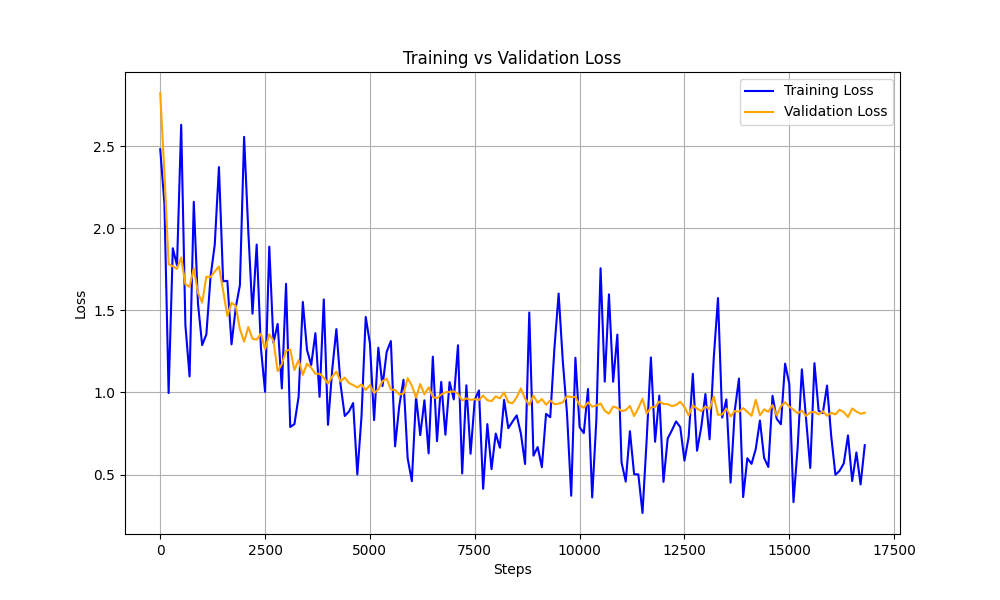
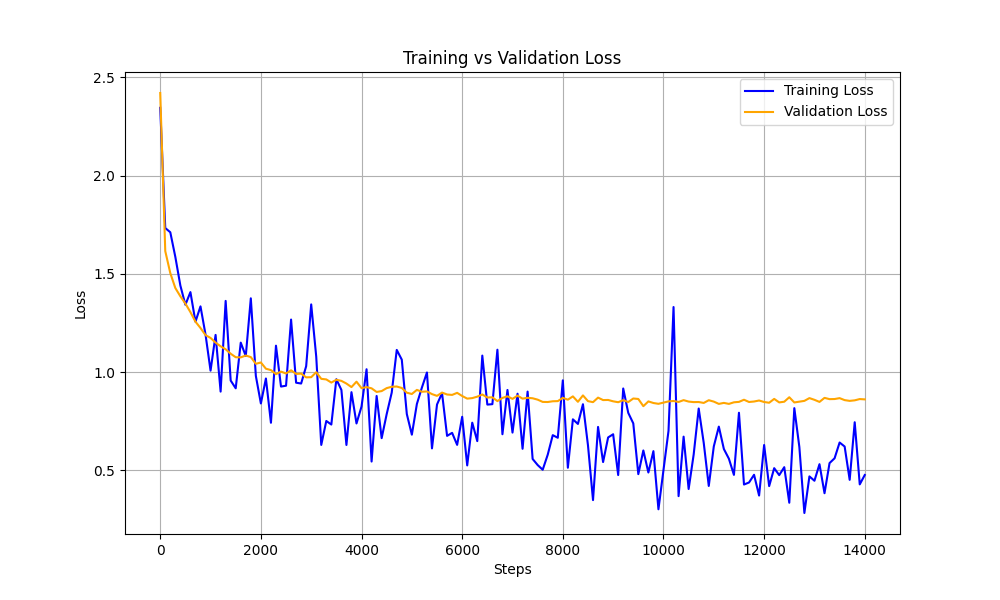
basic CNN stats

diff --git a/train.py b/train.py
@@ -26,12 +26,17 @@ class CNNModel(nn.Module):
         self.conv2 = nn.Conv2d(in_channels=64, out_channels=128, kernel_size=3) #[B, 128, 29, 29]
         self.relu2 = nn.ReLU()
         self.b_norm2 = nn.BatchNorm2d(128)
-        self.pooling1 = nn.MaxPool2d(kernel_size=3, stride=3) # [B, 128, 9, 9]
+        self.pooling1 = nn.AvgPool2d(kernel_size=3, stride=3) # [B, 128, 9, 9]
         self.dp2 = nn.Dropout(0.1)
 
         self.flatten = nn.Flatten(start_dim=1, end_dim=-1) # [B, 128*9*9]
-        self.hidden1 = nn.Linear(in_features=128*9*9, out_features=500)
-        self.proj = nn.Linear(in_features=500, out_features=10)
+        self.hidden1 = nn.Linear(in_features=128*9*9, out_features=100)
+        self.layer_norm1 = nn.LayerNorm(100)
+        self.dp3 = nn.Dropout(0.1)
+        self.hidden2 = nn.Linear(in_features=100, out_features=50)
+        self.layer_norm2 = nn.LayerNorm(50)
+        self.dp4 = nn.Dropout(0.1)
+        self.proj = nn.Linear(in_features=50, out_features=10)
     
     def forward(self, x):
         x = self.conv1(x)
@@ -45,13 +50,17 @@ class CNNModel(nn.Module):
         x = self.dp2(x)
         x = self.flatten(x)
         x = self.hidden1(x)
+        x = self.layer_norm1(x)
+        x = self.dp3(x)
+        x = self.hidden2(x)
+        x = self.layer_norm2(x)
+        x = self.dp4(x)
         out = self.proj(x)
         return out
 
 
 
 def validation_loss(model, target_data):
-    target_data = val_dataloader
     with torch.no_grad():
         model.eval()
         lossi = []
@@ -65,7 +74,7 @@ def validation_loss(model, target_data):
             probs = lSoftmax(out)
             loss = F.cross_entropy(out, yb.view(-1))
             indices = torch.argmax(probs, dim=-1)
-            accuracy += (indices == yb).sum().item()
+            accuracy += (indices == yb.view(-1)).sum().item()
             b_count += yb.size(0)
             lossi.append(loss.item())
             xb = xb.to('cpu')
@@ -80,19 +89,19 @@ def validation_loss(model, target_data):
 
 
 if __name__ == '__main__':
-    train_dataloader, val_dataloader = get_data_loaders(download=True)
+    train_dataloader, val_dataloader = get_data_loaders(download=True, split='train', batch=32)
     print(f"Data is loaded:- ")
     # import pdb; pdb.set_trace()
     model = CNNModel()
     model = model.to(device)
     criterion = nn.CrossEntropyLoss()
-    optimizer = optim.AdamW(model.parameters(), lr = 1e-3)
+    optimizer = optim.AdamW(model.parameters(), lr = 1e-4)
     lossi = []
     stepi = []
     vallossi = []
     model.train()
     step = 0
-    for epoch in range(6):
+    for epoch in range(10):
         for xb, yb in train_dataloader:
             xb = xb.to(device)
             yb = yb.to(device)
@@ -105,7 +114,7 @@ if __name__ == '__main__':
             yb = yb.to('cpu')
             if step%100 == 0:
                 val_stats = validation_loss(model, val_dataloader)
-                print(f"Epoch:- {epoch}, step:- {step}, train_loss:- {loss.item()}, val_loss:- {val_stats['loss']}")
+                print(f"Epoch:- {epoch}, step:- {step}, train_loss:- {loss.item()}, val_loss:- {val_stats['loss']}, val_accuracy:- {val_stats['accuracy']}")
                 lossi.append(loss.item())
                 stepi.append(step)
                 vallossi.append(val_stats['loss'])
@@ -121,7 +130,7 @@ if __name__ == '__main__':
     plt.grid(True)
     plt.savefig('training_loss_plot.png')
     print("Plot saved as training_loss_plot.png")
-    plt.show()
+    # plt.show()
 
     test_dataloader, _ = get_data_loaders(download=True, split='valid')
     stats = validation_loss(model, test_dataloader)

diff --git a/load_dataset.py b/load_dataset.py
@@ -6,7 +6,7 @@ from torchvision.transforms import transforms
 
 
 
-def preprocess_data(train_data, valid_split):
+def preprocess_data(train_data, valid_split, batch):
     x_train_data = []
     y_train_data = []
     for x, y in train_data:
@@ -19,7 +19,7 @@ def preprocess_data(train_data, valid_split):
         x_data = torch.tensor(x_train_data)
         y_data = torch.tensor(y_train_data)
         temp_dataset = TensorDataset(x_data, y_data)
-        temp_dataloader_train = DataLoader(temp_dataset, shuffle=True, batch_size=16)
+        temp_dataloader_train = DataLoader(temp_dataset, shuffle=True, batch_size=batch)
     else:
         length = int(len(x_train_data)*0.9)
         x_train, x_valid = x_train_data[:length], x_train_data[length:]
@@ -28,12 +28,12 @@ def preprocess_data(train_data, valid_split):
         y_data_train, y_data_valid = torch.tensor(y_train), torch.tensor(y_valid)
         temp_dataset_train = TensorDataset(x_data_train, y_data_train)
         temp_dataset_valid = TensorDataset(x_data_valid, y_data_valid)
-        temp_dataloader_train = DataLoader(temp_dataset_train, shuffle=True, batch_size=16)
-        temp_dataloader_valid = DataLoader(temp_dataset_valid, shuffle=True, batch_size=16)
+        temp_dataloader_train = DataLoader(temp_dataset_train, shuffle=True, batch_size=batch)
+        temp_dataloader_valid = DataLoader(temp_dataset_valid, shuffle=True, batch_size=batch)
     return temp_dataloader_train, temp_dataloader_valid
 
 
-def get_data_loaders(download = False, split='train'):
+def get_data_loaders(download = False, split='train', batch=32):
     traget_data = None
     valid_split = False
     transform = transforms.Compose([
@@ -45,5 +45,5 @@ def get_data_loaders(download = False, split='train'):
         valid_split = True
     else:
         traget_data = torchvision.datasets.CIFAR10(root='./data_folder/', train=False, download=download, transform=transform)
-    traget_dataloader, test_dataloader = preprocess_data(traget_data, valid_split)
+    traget_dataloader, test_dataloader = preprocess_data(traget_data, valid_split, batch)
     return traget_dataloader, test_dataloader
